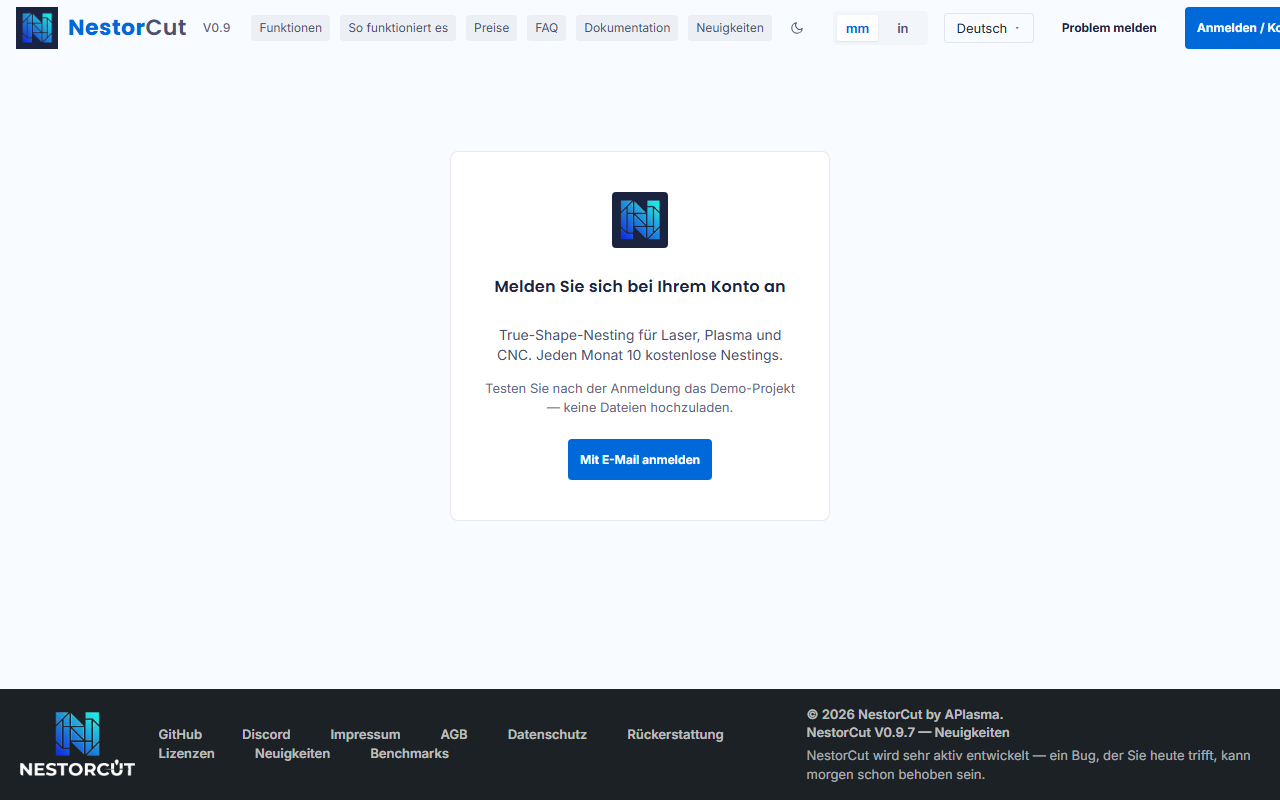
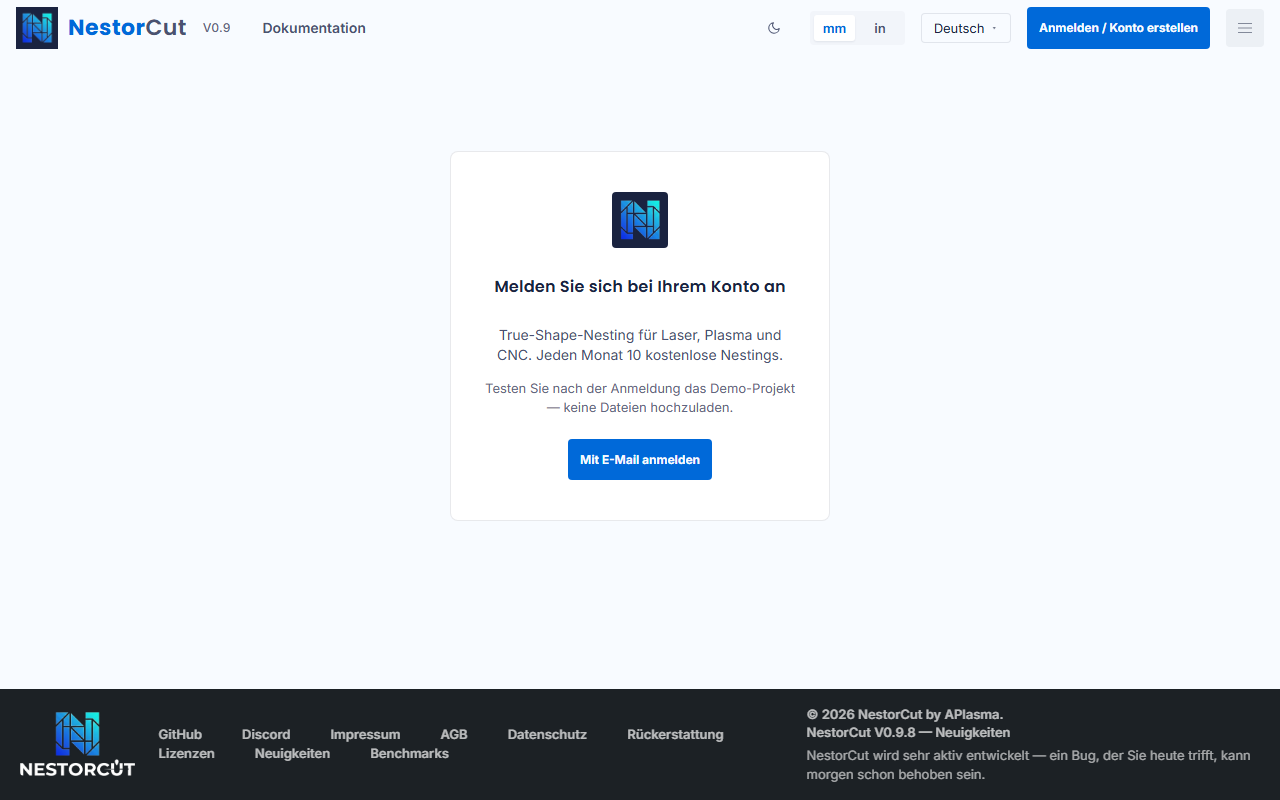
fix(app): lot M3-bis — l'en-tête tient dans l'écran à toute largeur et dans les six langues
Repli du nav piloté par la place réelle (mesure au montage/resize/langue,
classe header--nav-collapsed, replié par défaut côté SSR) — plus de seuil
fixe 1199 px. Le conteneur de page plafonne l'en-tête à 1300 px : le menu
complet (1342-1484 px selon la langue) n'y tient dans aucune langue, la
Documentation reste donc visible dans la barre repliée (même style que
l'en-tête connecté) et « Signaler un problème » vit dans le panneau.
Écart connecté Espace↔Documentation porté à celui du menu (26 px).

Sonde rejouable : 228 vertes (6 langues × 7 largeurs, scrollWidth + bord
droit de chaque élément ≤ écran, panneau fonctionnel, connecté 4 largeurs)
— elle rendait 29 rouges sur 52f305db (run-avant-fix.log). Contre-essai
600/375 px : pas de débordement. Vitest 825/825.

diff --git a/app/components/MainHeader.vue b/app/components/MainHeader.vue
@@ -1,5 +1,9 @@
 <template>
-    <header class="header">
+    <header
+        ref="headerRoot"
+        class="header"
+        :class="{ 'header--nav-collapsed': isSecondaryTheme && navCollapsed }"
+    >
         <component
             :is="logoTag"
             v-bind="logoHref"
@@ -25,6 +29,22 @@
             </NuxtLink>
             <!-- Lot M3 : la documentation reste accessible une fois connecté —
                  un lien texte à côté d'« Espace de travail », même style. -->
+            <a
+                :href="docsHomeLink"
+                target="_blank"
+                class="tabs__text tabs__text--docs"
+            >
+                {{ t('nav.docs') }}
+            </a>
+        </nav>
+        <!-- Lot M3-bis : replié, la Documentation reste VISIBLE dans la
+             barre (même style que l'en-tête connecté) — le conteneur de
+             page plafonne l'en-tête à 1300 px, le menu complet (1342 à
+             1484 px selon la langue) n'y tient dans AUCUNE langue. -->
+        <nav
+            v-if="isSecondaryTheme && navCollapsed"
+            class="header__tabs tabs tabs--collapsed-docs"
+        >
             <a
                 :href="docsHomeLink"
                 target="_blank"
@@ -91,7 +111,7 @@
                 tag="a"
                 trackingTag="report_problem"
                 class="header__btn"
-                v-if="isSecondaryTheme"
+                v-if="isSecondaryTheme && !navCollapsed"
             />
             <MainButton
                 v-if="isSecondaryTheme && userIsLoggedIn"
@@ -168,35 +188,73 @@ const majorMinor = appVersion.split('.').slice(0, 2).join('.')
     const route = useRoute()
 
     const menuIsOpen = ref(false)
+    // Lot M3-bis : repli du nav piloté par la place RÉELLE, mesurée —
+    // jamais un seuil fixe. L'en-tête déconnecté ne tenait l'écran qu'en
+    // anglais (fr 1414 px rendus pour 1280, mesuré à la relecture M3).
+    // Replié par défaut : aucun débordement possible avant la mesure.
+    const headerRoot = ref(null)
+    const navCollapsed = ref(true)
+    let recheckTimer = null
+
+    async function recheckNavFit() {
+        const el = headerRoot.value
+        if (!el || window.innerWidth < 567) {
+            navCollapsed.value = true
+            return
+        }
+        // Mesure en état déplié : nextTick est une microtâche, tout se
+        // joue avant le rendu — on déplie, on mesure, on replie si ça
+        // déborde, sans flash à l'écran.
+        navCollapsed.value = false
+        await nextTick()
+        if (el.scrollWidth > el.clientWidth + 1) navCollapsed.value = true
+    }
+
+    function scheduleRecheckNavFit() {
+        clearTimeout(recheckTimer)
+        recheckTimer = setTimeout(recheckNavFit, 120)
+    }
+
     // Lot M3 : les liens du site VITRINE dans la LANGUE de l'utilisateur
     // (siteUrl dans docsLinks.js — anglais à la racine, cinq autres sous
     // préfixe) + un lien Documentation visible dans le menu déconnecté.
-    const nav = computed(() => [
-        {
-            label: t('nav.features'),
-            href: siteUrl(locale.value, 'features'),
-        },
-        {
-            label: t('nav.howItWorks'),
-            href: siteUrl(locale.value, 'how-it-works'),
-        },
-        {
-            label: t('nav.pricing'),
-            href: '/plans',
-        },
-        {
-            label: t('nav.faq'),
-            href: siteUrl(locale.value, 'faq'),
-        },
-        {
-            label: t('nav.docs'),
-            href: docsHomeUrl(locale.value),
-        },
-        {
+    // Lot M3-bis : déplié, les six liens et le signalement vivent dans la
+    // barre ; replié (conteneur 1300 px, menu complet 1342-1484 px), la
+    // Documentation reste dans la barre, le reste vit dans le panneau.
+    const nav = computed(() => {
+        const items = [
+            {
+                label: t('nav.features'),
+                href: siteUrl(locale.value, 'features'),
+            },
+            {
+                label: t('nav.howItWorks'),
+                href: siteUrl(locale.value, 'how-it-works'),
+            },
+            {
+                label: t('nav.pricing'),
+                href: '/plans',
+            },
+            {
+                label: t('nav.faq'),
+                href: siteUrl(locale.value, 'faq'),
+            },
+        ]
+        if (!navCollapsed.value) {
+            items.push({
+                label: t('nav.docs'),
+                href: docsHomeUrl(locale.value),
+            })
+        }
+        items.push({
             label: t('nav.changelog'),
             href: '/changelog',
-        },
-    ])
+        })
+        if (navCollapsed.value) {
+            items.push({ label: t('nav.reportProblem'), href: githubIssues })
+        }
+        return items
+    })
 
     const { getters: authGetters } = authStore
     const userIsLoggedIn = computed(() => Boolean(unref(authGetters.userIsSet)))
@@ -243,6 +301,20 @@ const majorMinor = appVersion.split('.').slice(0, 2).join('.')
     const docsHomeLink = computed(() => docsHomeUrl(locale.value))
     // Brand mark: the NestorCut "N" tile works on both light and dark themes.
     const logoMarkSrc = computed(() => '/brand/n-mark.png')
+
+    onMounted(() => {
+        recheckNavFit()
+        window.addEventListener('resize', scheduleRecheckNavFit)
+        // Les libellés changent de largeur avec la langue et avec la
+        // fonte définitive : re-mesurer dans les deux cas.
+        watch(locale, recheckNavFit)
+        if (document.fonts && document.fonts.ready) document.fonts.ready.then(recheckNavFit)
+    })
+
+    onBeforeUnmount(() => {
+        window.removeEventListener('resize', scheduleRecheckNavFit)
+        clearTimeout(recheckTimer)
+    })
 </script>
 <style lang="scss" scoped>
     .header {
@@ -269,10 +341,18 @@ const majorMinor = appVersion.split('.').slice(0, 2).join('.')
             margin-top: 16px;
             display: flex;
             justify-content: flex-end;
-            /* Lot M3 : pas de wrap — les boutons tiennent sur la rangée
-               ou le menu replié prend le relais. */
+            /* Lot M3-bis : pas de wrap — quand la place manque, le nav
+               replié prend le relais et « Signaler un problème » déménage
+               dans le panneau. */
             flex-wrap: nowrap;
             align-items: center;
+
+            /* Lot M3-bis, filet 567-679 : avec les libellés les plus
+               longs, les boutons passent à la ligne plutôt que de
+               sortir de l'écran — repli dégradé, jamais de débordement. */
+            @media (min-width: 567px) and (max-width: 679px) {
+                flex-wrap: wrap;
+            }
 
             & > *:not(:first-child) {
                 margin: 4px;
@@ -325,27 +405,33 @@ const majorMinor = appVersion.split('.').slice(0, 2).join('.')
             transform: translate3d(120%, 0, 0);
             transition: transform 0.3s;
 
-            @media (min-width: 1199px) {
-                position: initial;
-                top: initial;
-                left: initial;
-                right: initial;
-                bottom: initial;
-                transform: initial;
+            /* Lot M3-bis : en place dès que la rangée existe (≥567 px) ET
+               que la place réelle suffit — la classe porte la décision de
+               la mesure client, plus de seuil fixe 1199 px. :where garde
+               la spécificité du base pour que :hover gagne toujours. */
+            @media (min-width: 567px) {
+                :where(.header:not(.header--nav-collapsed)) & {
+                    position: initial;
+                    top: initial;
+                    left: initial;
+                    right: initial;
+                    bottom: initial;
+                    transform: initial;
+                }
             }
 
             &--is-open {
                 transform: translate3d(0, 0, 0);
-
-                @media (min-width: 1199px) {
-                    transform: initial;
-                }
             }
         }
 
         &__toggler {
-            @media (min-width: 1199px) {
-                display: none;
+            /* Lot M3-bis : masqué seulement quand le nav est en place
+               (≥567 px + place réelle suffisante, sinon panneau). */
+            @media (min-width: 567px) {
+                :where(.header:not(.header--nav-collapsed)) & {
+                    display: none;
+                }
             }
         }
 
@@ -367,7 +453,11 @@ const majorMinor = appVersion.split('.').slice(0, 2).join('.')
     .tabs {
         display: flex;
         align-items: center;
-        gap: 8px;
+        /* Lot M3-bis : le même écart qu'entre les liens du menu
+           déconnecté (marges 5+5 + padding 8+8 = 26 px) — à 8 px,
+           « Espace de travail » et « Documentation » se lisaient d'un
+           seul tenant. */
+        gap: 26px;
         margin-top: 16px;
 
         @media (min-width: 567px) {
@@ -398,6 +488,15 @@ const majorMinor = appVersion.split('.').slice(0, 2).join('.')
 
             &--docs {
                 color: var(--text-2);
+            }
+        }
+
+        /* Lot M3-bis : le lien Documentation de la barre repliée n'existe
+           qu'à partir de la rangée unique — en dessous, il vit dans le
+           panneau comme sur mobile. */
+        &--collapsed-docs {
+            @media (max-width: 566.98px) {
+                display: none;
             }
         }
     }
@@ -444,8 +543,10 @@ const majorMinor = appVersion.split('.').slice(0, 2).join('.')
     .nav {
         padding-top: 80px;
 
-        @media (min-width: 1199px) {
-            padding-top: initial;
+        @media (min-width: 567px) {
+            :where(.header:not(.header--nav-collapsed)) & {
+                padding-top: initial;
+            }
         }
 
         &__list {
@@ -456,28 +557,34 @@ const majorMinor = appVersion.split('.').slice(0, 2).join('.')
             justify-content: center;
             flex-direction: column;
 
-            @media (min-width: 1199px) {
-                position: initial;
-                z-index: initial;
-                justify-content: initial;
-                flex-direction: initial;
+            @media (min-width: 567px) {
+                :where(.header:not(.header--nav-collapsed)) & {
+                    position: initial;
+                    z-index: initial;
+                    justify-content: initial;
+                    flex-direction: initial;
+                }
             }
         }
 
         &__item {
             width: 100%;
 
-            @media (min-width: 1199px) {
-                margin-left: 5px;
-                margin-right: 5px;
-                width: initial;
+            @media (min-width: 567px) {
+                :where(.header:not(.header--nav-collapsed)) & {
+                    margin-left: 5px;
+                    margin-right: 5px;
+                    width: initial;
+                }
             }
 
             &:not(:last-child) {
                 margin-bottom: 20px;
 
-                @media (min-width: 1199px) {
-                    margin-bottom: initial;
+                @media (min-width: 567px) {
+                    :where(.header:not(.header--nav-collapsed)) & {
+                        margin-bottom: initial;
+                    }
                 }
             }
         }
@@ -498,10 +605,12 @@ const majorMinor = appVersion.split('.').slice(0, 2).join('.')
                 color 0.3s,
                 background-color 0.3s;
 
-            @media (min-width: 1199px) {
-                font-size: var(--fs-12);
-                color: var(--label-secondary);
-                background-color: var(--fill-tertiary);
+            @media (min-width: 567px) {
+                :where(.header:not(.header--nav-collapsed)) & {
+                    font-size: var(--fs-12);
+                    color: var(--label-secondary);
+                    background-color: var(--fill-tertiary);
+                }
             }
 
             @media (hover: hover) {
@@ -520,8 +629,10 @@ const majorMinor = appVersion.split('.').slice(0, 2).join('.')
             left: 0;
             background-color: var(--menu-background);
 
-            @media (min-width: 1199px) {
-                display: none;
+            @media (min-width: 567px) {
+                :where(.header:not(.header--nav-collapsed)) & {
+                    display: none;
+                }
             }
         }
     }

diff --git a/CHANGELOG.md b/CHANGELOG.md
@@ -8,27 +8,27 @@ noms de lots internes. La version affichée dans l'en-tête est le
 
 *FR*
 
-- Le menu de l'application parle votre langue : les liens Fonctionnalités, Comment ça marche et FAQ pointent vers le site dans votre langue, un lien Documentation apparaît dans le menu et à côté d'Espace de travail, et l'en-tête tient sur une ligne — chaque libellé à sa place, jamais coupé. La promesse d'notifications par e-mail est retirée (elle n'a jamais fonctionné), ainsi que les crédits et la mention « layouts plus denses » du plan Pro : Pro livre le même résultat plus tôt, pas un autre.
+- Le menu de l'application parle votre langue : les liens Fonctionnalités, Comment ça marche et FAQ pointent vers le site dans votre langue, un lien Documentation apparaît dans le menu et à côté d'Espace de travail, et l'en-tête s'adapte à la place disponible — menu complet quand tout tient, menu replié sinon — jamais un libellé coupé ni hors de l'écran. La promesse d'notifications par e-mail est retirée (elle n'a jamais fonctionné), ainsi que les crédits et la mention « layouts plus denses » du plan Pro : Pro livre le même résultat plus tôt, pas un autre.
 
 *EN*
 
-- The app menu now speaks your language: the Features, How it works and FAQ links point to the site in your language, a Documentation link appears in the menu and next to Workspace, and the header fits on one line — every label in place, never wrapped. The email notification promise is removed (it never worked), along with credits and the Pro "denser layouts" claim: Pro delivers the same result sooner, not a different one.
+- The app menu now speaks your language: the Features, How it works and FAQ links point to the site in your language, a Documentation link appears in the menu and next to Workspace, and the header adapts to the available space — full menu when everything fits, collapsed menu otherwise — never a label wrapped or off-screen. The email notification promise is removed (it never worked), along with credits and the Pro "denser layouts" claim: Pro delivers the same result sooner, not a different one.
 
 *PT*
 
-- O menu da aplicação agora fala seu idioma: os links Recursos, Como funciona e FAQ apontam para o site no seu idioma, um link Documentação aparece no menu e ao lado de Meu espaço, e o cabeçalho cabe em uma linha — cada rótulo no lugar, nunca quebrado. A promessa de notificações por e-mail foi retirada (nunca funcionou), junto com os créditos e a menção "arranjos mais densos" do Pro: o Pro entrega o mesmo resultado mais cedo, não outro.
+- O menu da aplicação agora fala seu idioma: os links Recursos, Como funciona e FAQ apontam para o site no seu idioma, um link Documentação aparece no menu e ao lado de Meu espaço, e o cabeçalho se adapta ao espaço disponível — menu completo quando tudo cabe, menu recolhido caso contrário — nunca um rótulo quebrado ou fora da tela. A promessa de notificações por e-mail foi retirada (nunca funcionou), junto com os créditos e a menção "arranjos mais densos" do Pro: o Pro entrega o mesmo resultado mais cedo, não outro.
 
 *IT*
 
-- Il menu dell'applicazione ora parla la tua lingua: i link Funzioni, Come funziona e FAQ puntano al sito nella tua lingua, un link Documentazione appare nel menu e accanto a Area di lavoro, e l'intestazione sta su una riga — ogni etichetta al suo posto, mai spezzata. La promessa di notifiche via email è stata ritirata (non ha mai funzionato), insieme ai crediti e alla menzione "disposizioni più dense" del Pro: il Pro consegna lo stesso risultato prima, non un altro.
+- Il menu dell'applicazione ora parla la tua lingua: i link Funzioni, Come funziona e FAQ puntano al sito nella tua lingua, un link Documentazione appare nel menu e accanto a Area di lavoro, e l'intestazione si adatta allo spazio disponibile — menu completo quando tutto sta, menu richiuso altrimenti — mai un'etichetta spezzata o fuori dallo schermo. La promessa di notifiche via email è stata ritirata (non ha mai funzionato), insieme ai crediti e alla menzione "disposizioni più dense" del Pro: il Pro consegna lo stesso risultato prima, non un altro.
 
 *DE*
 
-- Das Anwendungsmenü spricht jetzt Ihre Sprache: die Links Funktionen, So funktioniert es und FAQ zeigen auf die Website in Ihrer Sprache, ein Dokumentations-Link erscheint im Menü und neben Arbeitsbereich, und die Kopfzeile passt in eine Zeile — jede Beschriftung an ihrem Platz, nie umbrochen. Die E-Mail-Benachrichtigungs-Zusage wurde zurückgezogen (sie funktionierte nie), ebenso wie Credits und die "dichteren Layouts"-Aussage von Pro: Pro liefert dasselbe Ergebnis früher, kein anderes.
+- Das Anwendungsmenü spricht jetzt Ihre Sprache: die Links Funktionen, So funktioniert es und FAQ zeigen auf die Website in Ihrer Sprache, ein Dokumentations-Link erscheint im Menü und neben Arbeitsbereich, und die Kopfzeile passt sich dem verfügbaren Platz an — volles Menü, wenn alles hineinpasst, sonst eingeklapptes Menü — nie eine Beschriftung umbrochen oder außerhalb des Bildschirms. Die E-Mail-Benachrichtigungs-Zusage wurde zurückgezogen (sie funktionierte nie), ebenso wie Credits und die "dichteren Layouts"-Aussage von Pro: Pro liefert dasselbe Ergebnis früher, kein anderes.
 
 *ES*
 
-- El menú de la aplicación ahora habla tu idioma: los enlaces Funciones, Cómo funciona y FAQ apuntan al sitio en tu idioma, un enlace Documentación aparece en el menú y junto a Área de trabajo, y la cabecera cabe en una línea — cada etiqueta en su sitio, nunca cortada. La promesa de notificaciones por correo electrónico fue retirada (nunca funcionó), junto con los créditos y la mención "disposiciones más densas" de Pro: Pro entrega el mismo resultado antes, no otro.
+- El menú de la aplicación ahora habla tu idioma: los enlaces Funciones, Cómo funciona y FAQ apuntan al sitio en tu idioma, un enlace Documentación aparece en el menú y junto a Área de trabajo, y la cabecera se adapta al espacio disponible — menú completo cuando todo cabe, menú plegado en caso contrario — nunca una etiqueta cortada ni fuera de la pantalla. La promesa de notificaciones por correo electrónico fue retirada (nunca funcionó), junto con los créditos y la mención "disposiciones más densas" de Pro: Pro entrega el mismo resultado antes, no otro.
 
 ## V0.9.7
 
